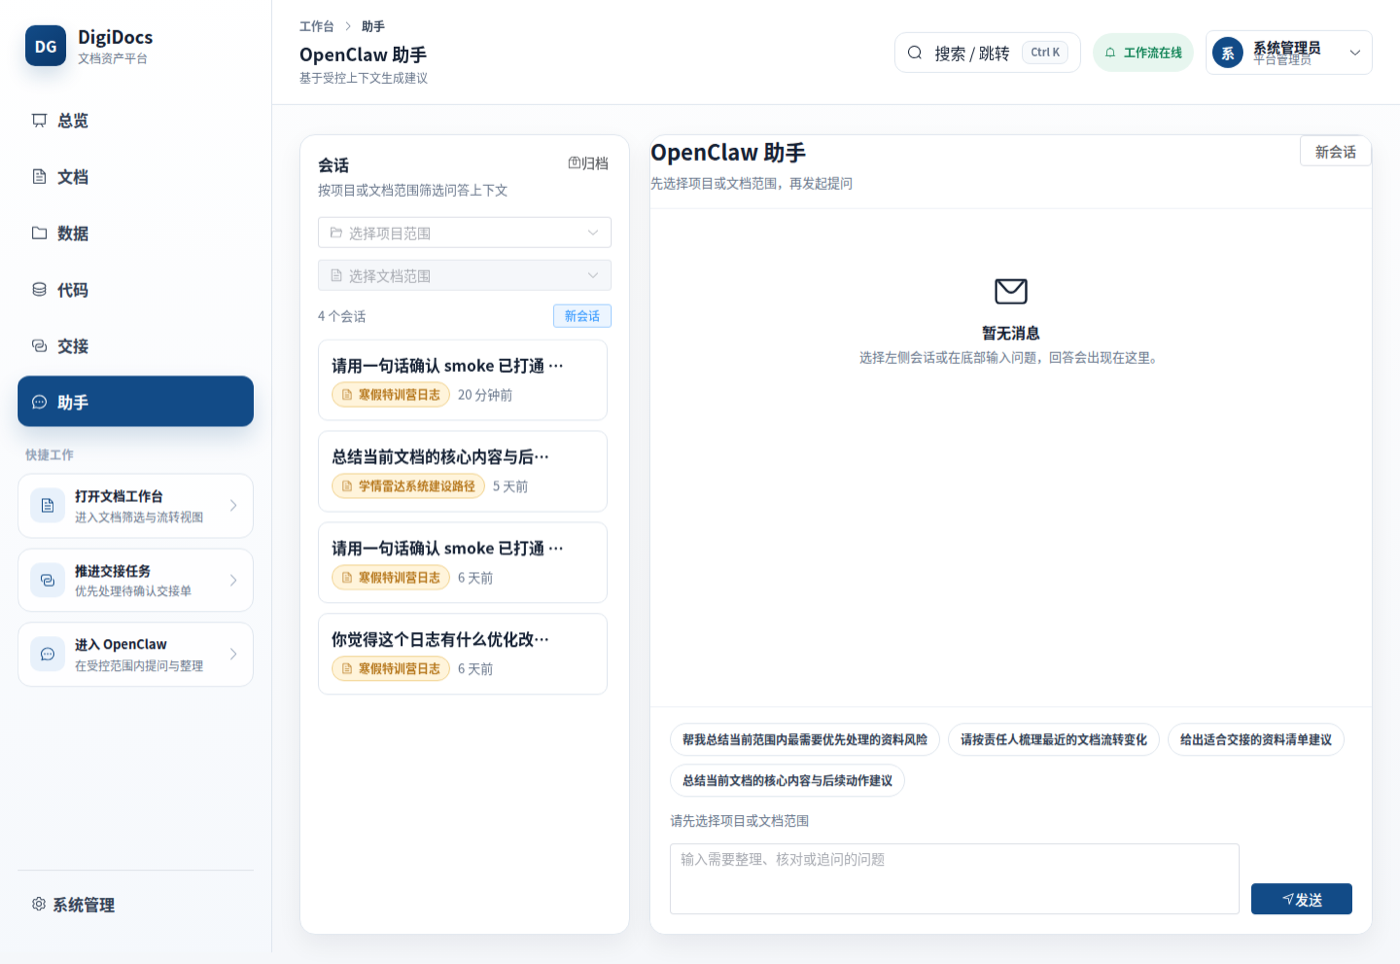
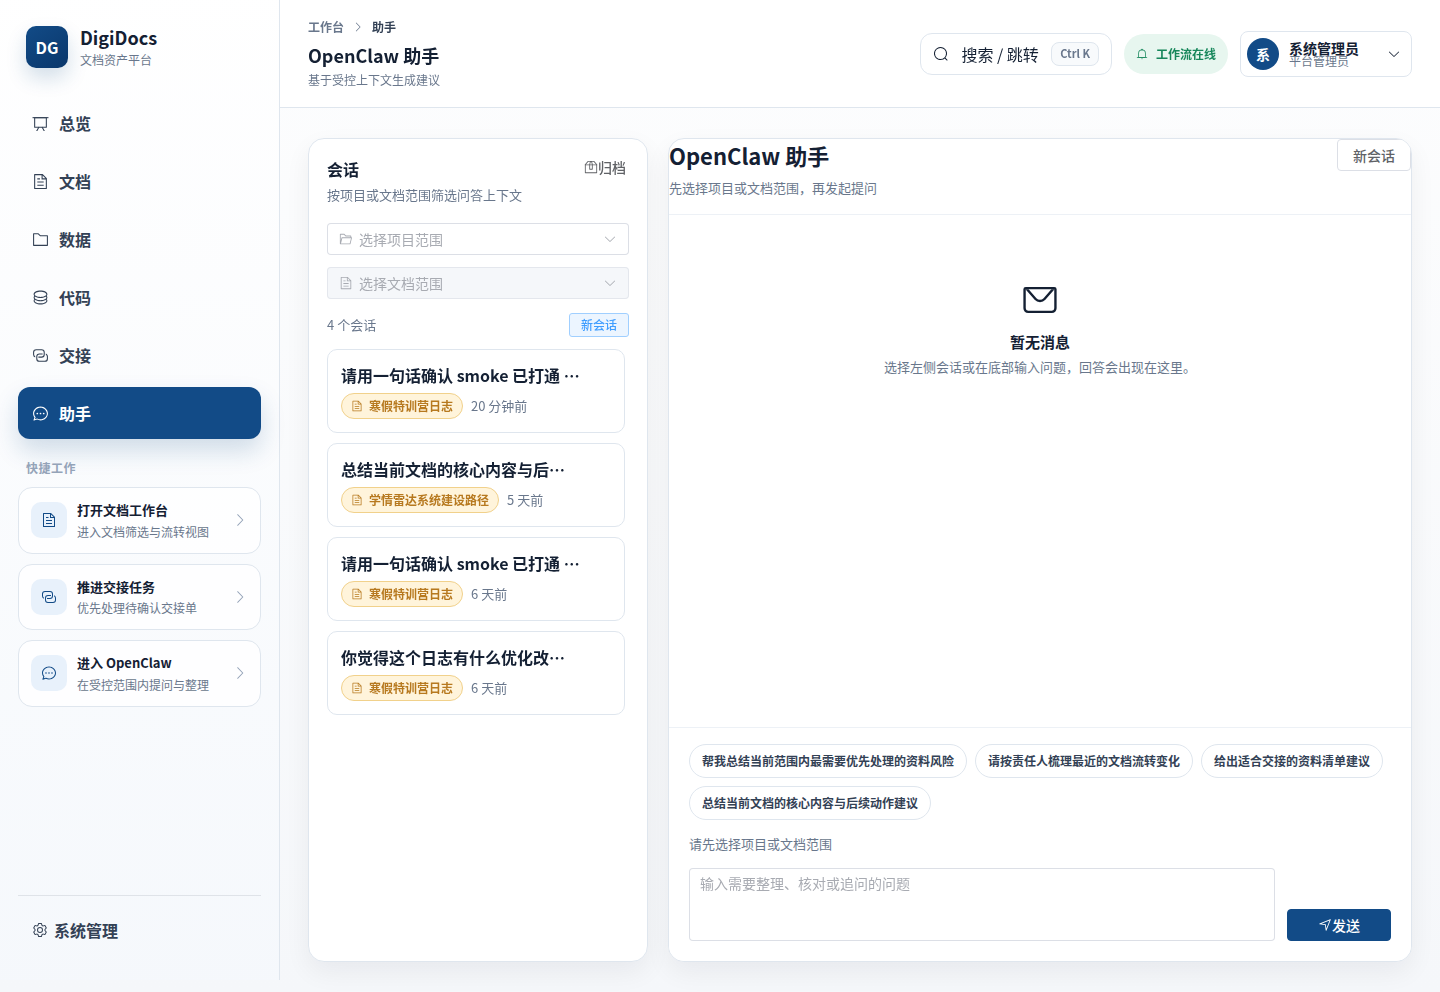
fix: 移动端右上角按钮可见、智研云枢更新产品截图、工程运维图移动端适配

diff --git a/styles.css b/styles.css
@@ -646,11 +646,11 @@ p {
 }
 
 .product-main {
-  aspect-ratio: 1400 / 964;
+  aspect-ratio: 1440 / 992;
 }
 
 .product-float {
-  aspect-ratio: 866 / 1400;
+  aspect-ratio: 1440 / 2327;
 }
 
 .inspection-stage {
@@ -805,8 +805,7 @@ p {
 }
 
 @media (max-width: 1020px) {
-  .desktop-nav,
-  .nav-action {
+  .desktop-nav {
     display: none;
   }
 
@@ -842,10 +841,14 @@ p {
 
   .brand {
     font-size: 13px;
+    overflow: hidden;
+    text-overflow: ellipsis;
+    white-space: nowrap;
   }
 
   .brand-mark {
     border-radius: 10px;
+    flex: 0 0 auto;
     height: 30px;
     width: 30px;
   }
@@ -910,7 +913,9 @@ p {
   }
 
   .inspection-stage img {
-    height: 280px;
+    height: auto;
+    max-height: 340px;
+    object-fit: contain;
   }
 
   .site-footer {

diff --git a/index.html b/index.html
@@ -225,27 +225,25 @@
         </div>
         <div class="product-scene reveal">
           <picture>
-            <source srcset="assets/digidocs-assistant.webp" type="image/webp" />
             <img
               class="product-main"
               src="assets/digidocs-assistant.png"
-              width="1400"
-              height="964"
+              width="1440"
+              height="992"
               loading="lazy"
               decoding="async"
-              alt="智研云枢智能助手界面"
+              alt="智研云枢 AI 智能助手界面"
             />
           </picture>
           <picture>
-            <source srcset="assets/digidocs-dashboard.webp" type="image/webp" />
             <img
               class="product-float"
               src="assets/digidocs-dashboard.png"
-              width="866"
-              height="1400"
+              width="1440"
+              height="2327"
               loading="lazy"
               decoding="async"
-              alt="智研云枢负责人总览界面"
+              alt="智研云枢工作台总览界面"
             />
           </picture>
         </div>